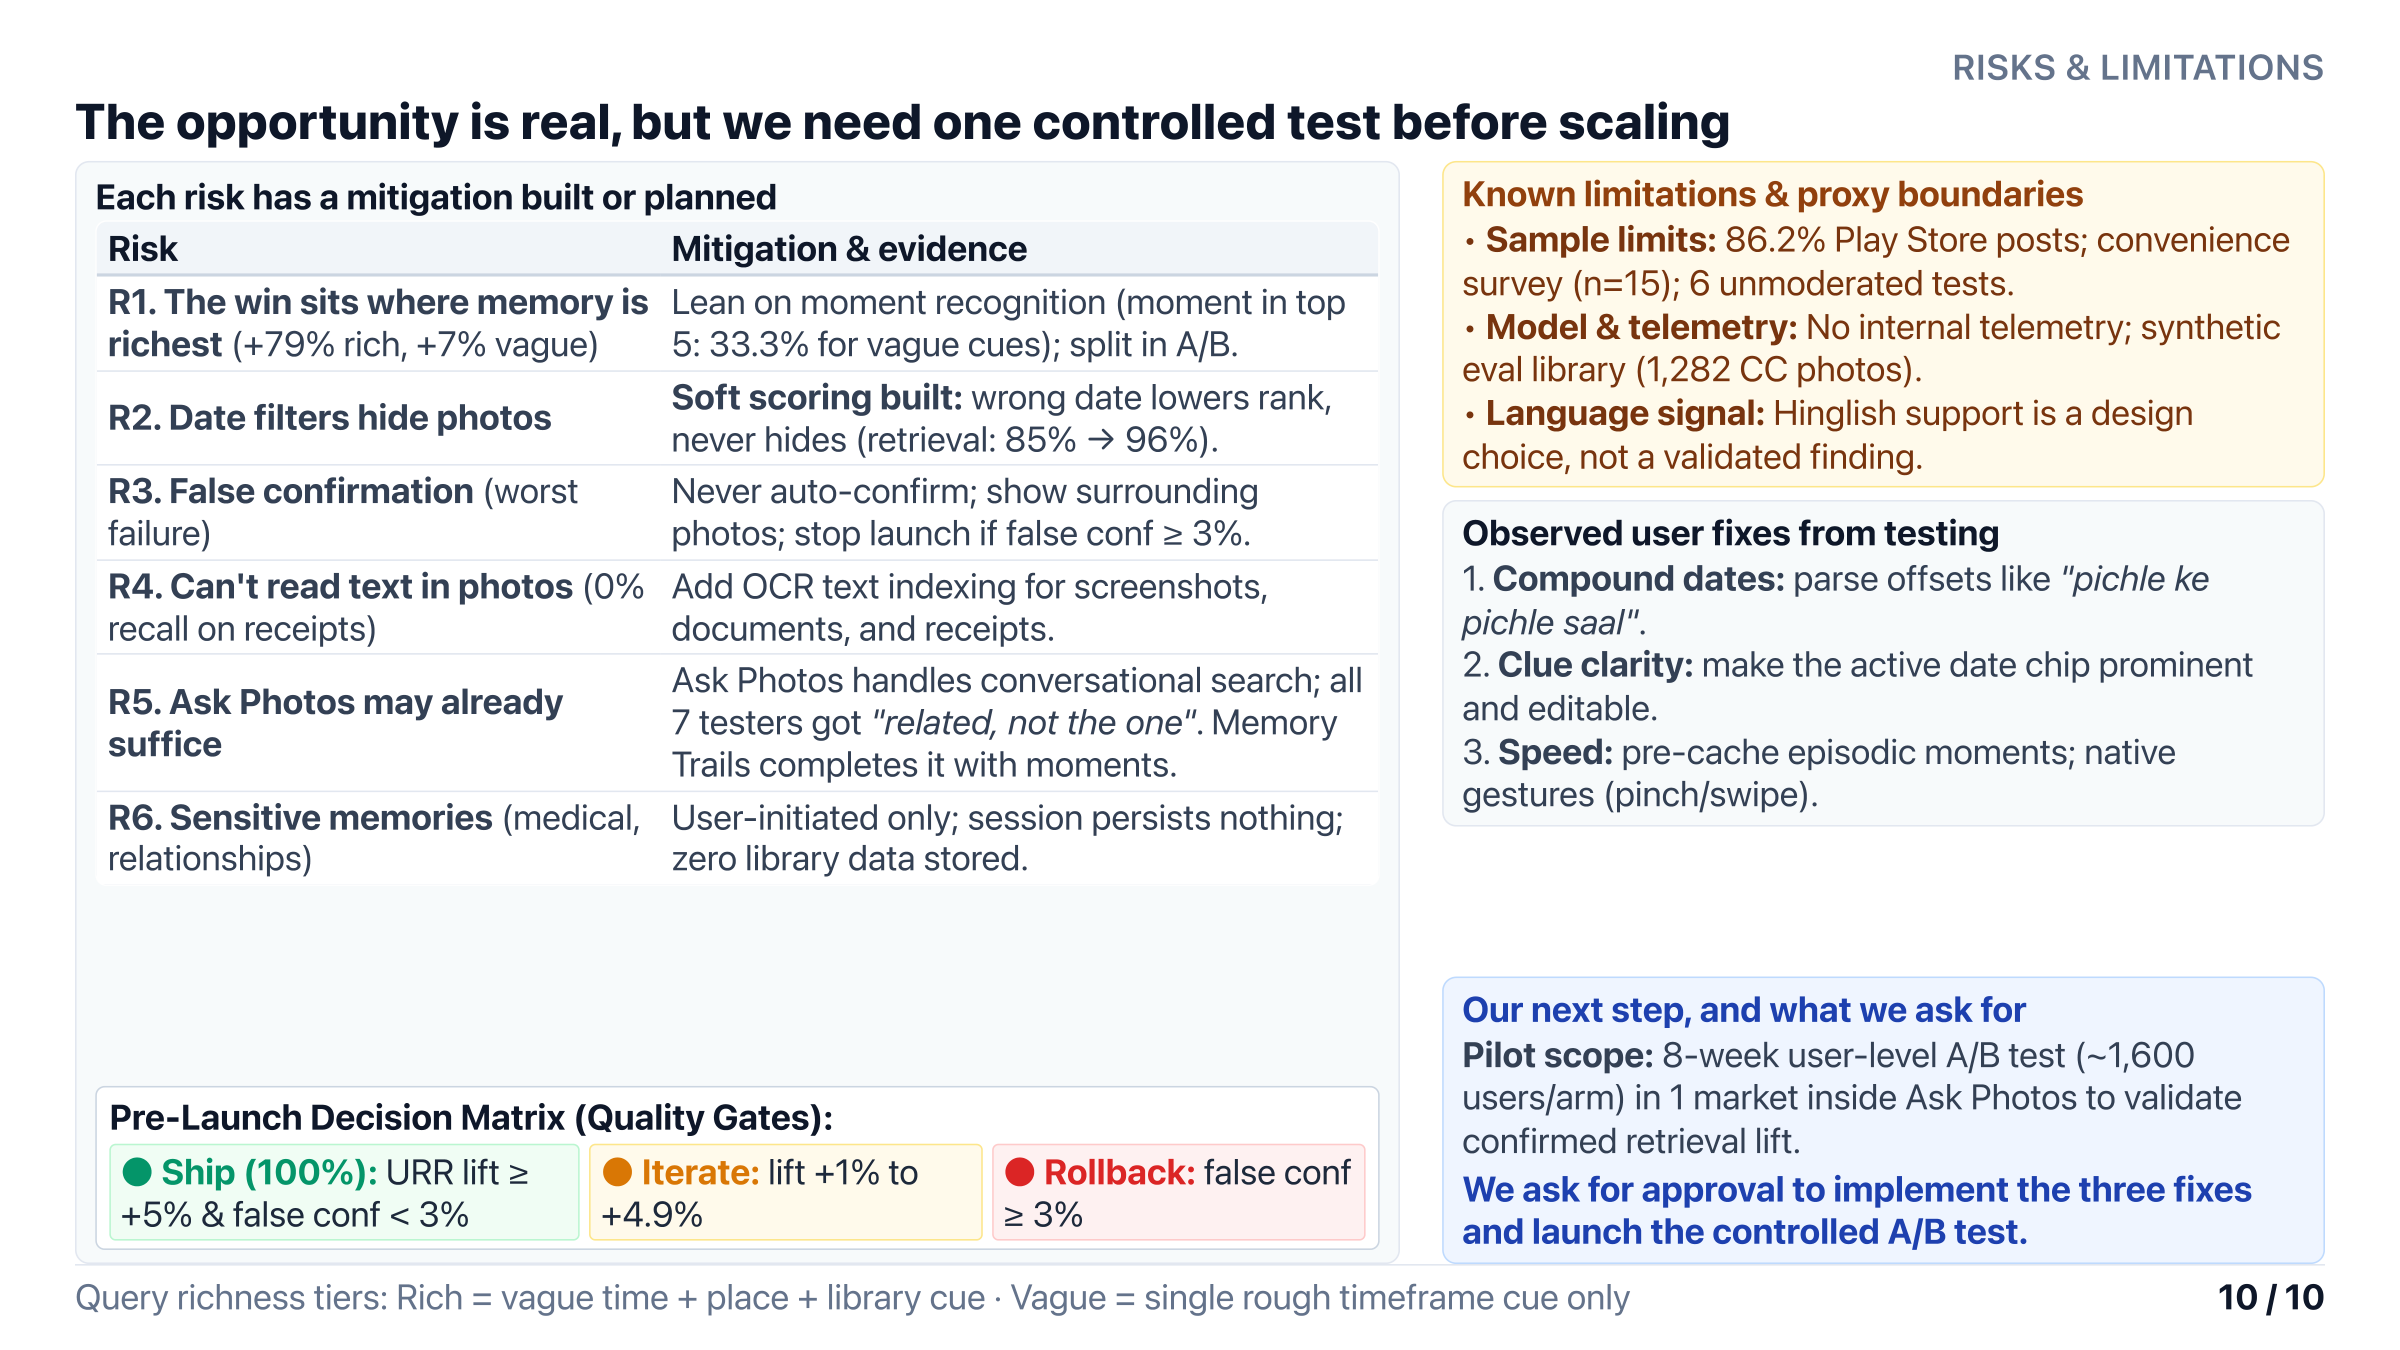
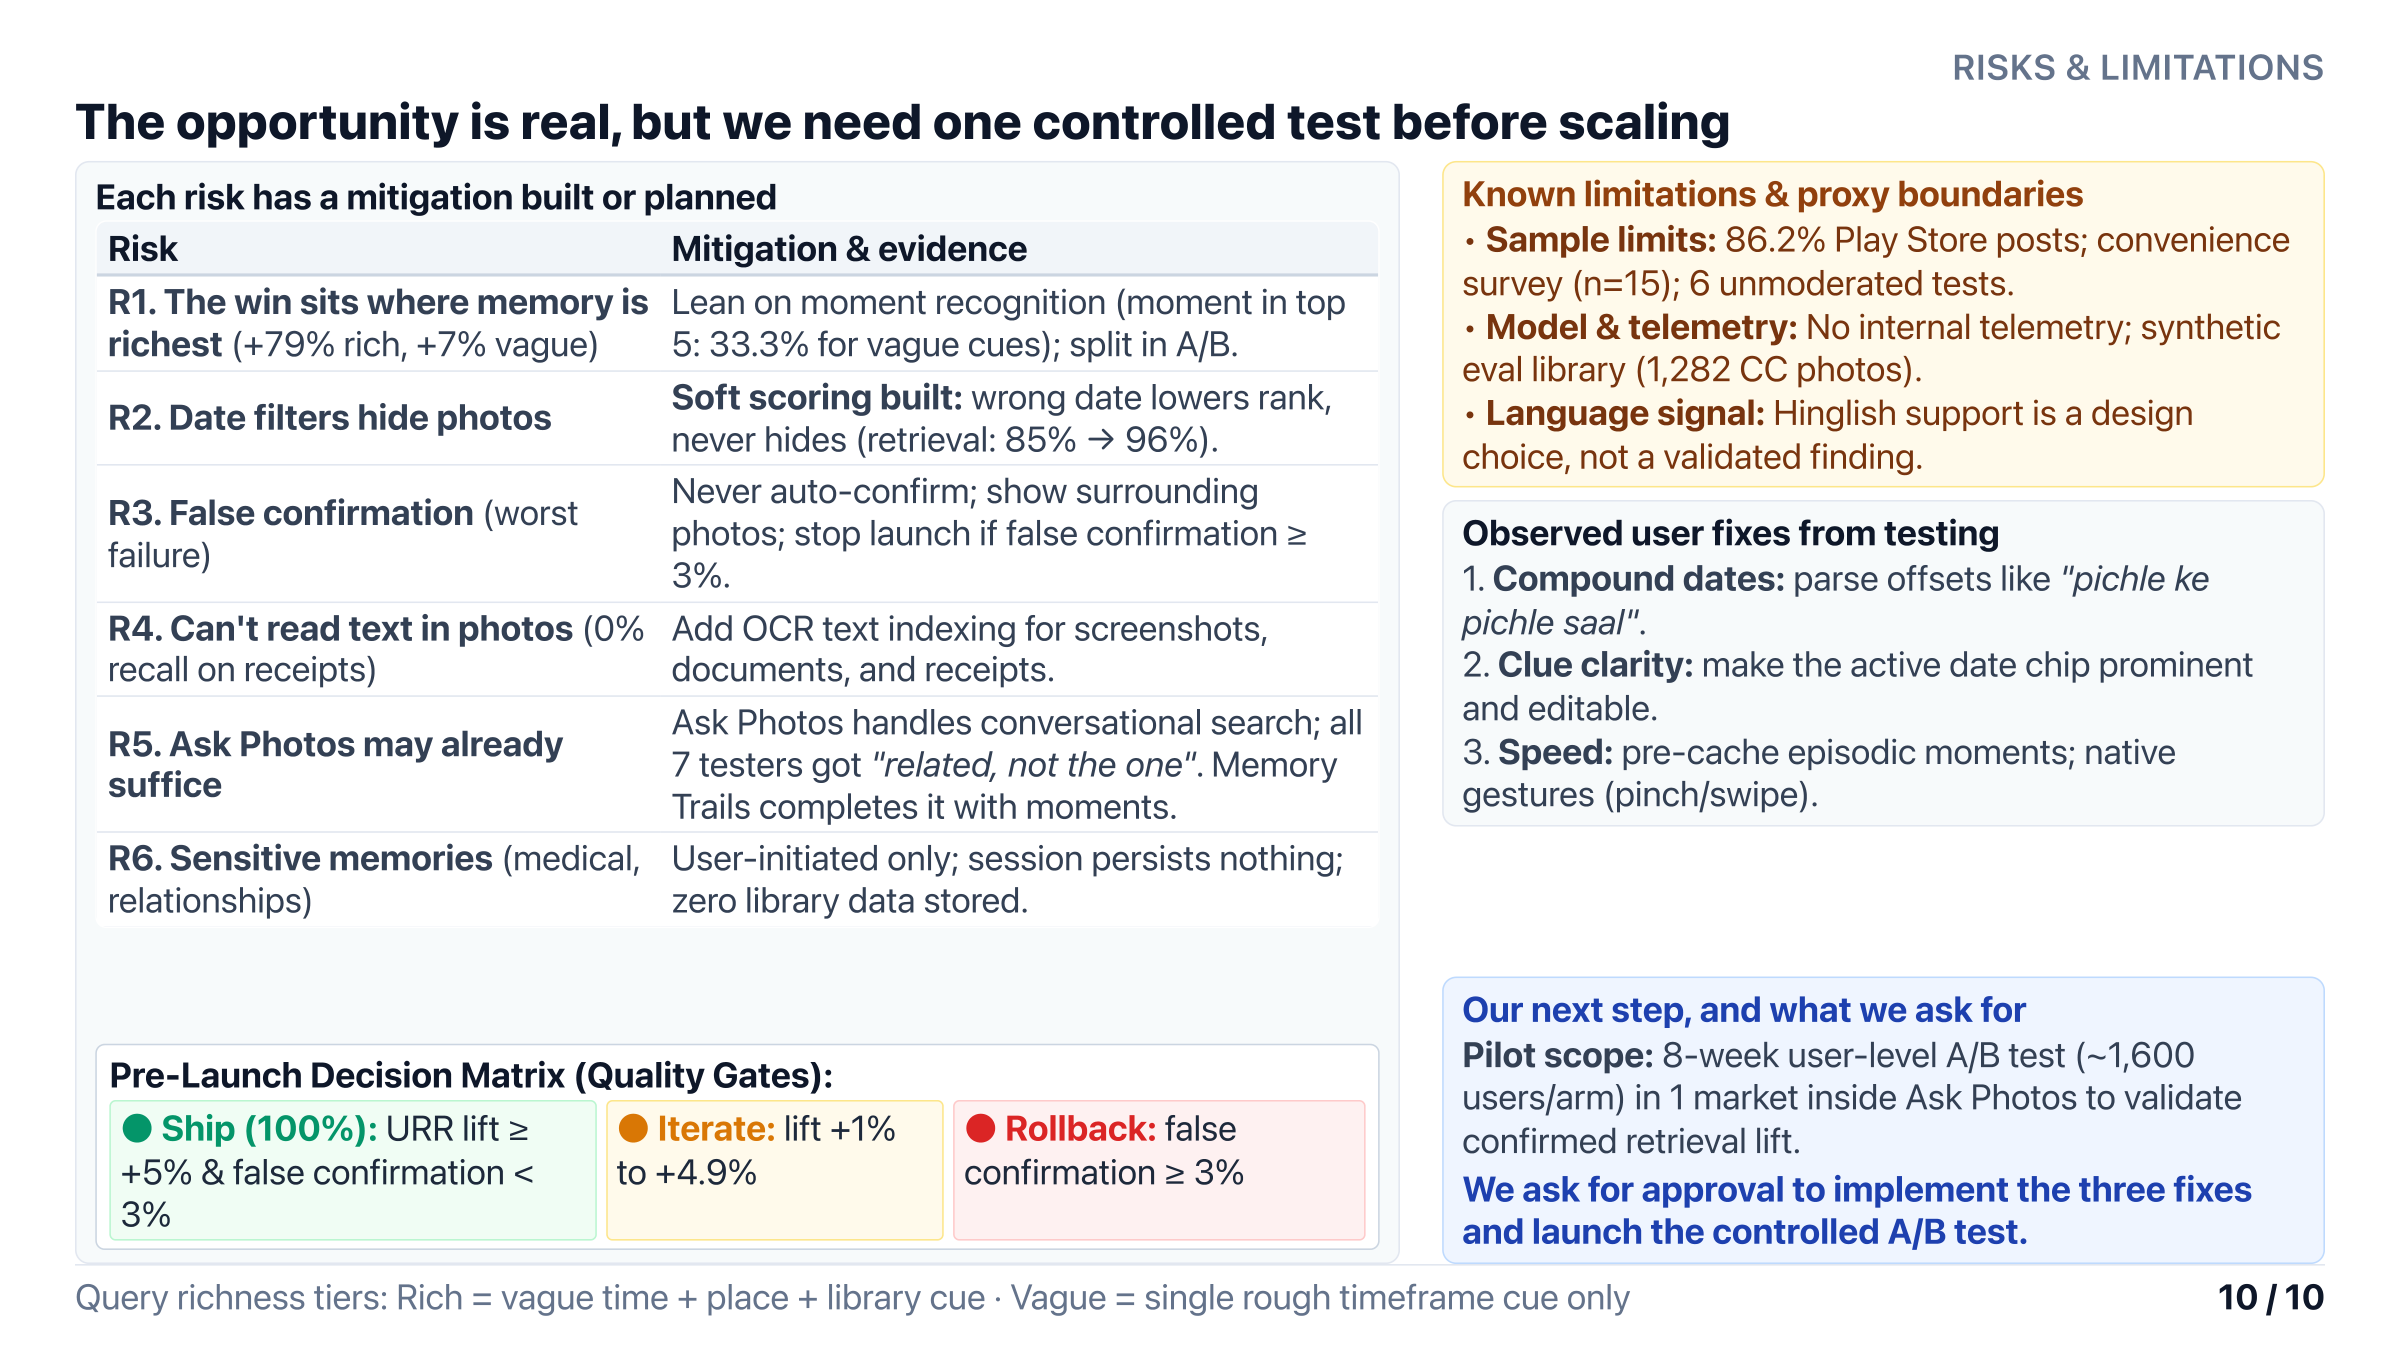
docs(deck): spell out false confirmation fully on Slide 10

Changed region(s): [[0.0312, 0.3422, 0.5625, 0.6844], [0.0312, 0.7778, 0.5625, 0.9333]]

diff --git a/deck/index.html b/deck/index.html
@@ -1119,7 +1119,7 @@
           <tbody>
             <tr><td><strong>R1. The win sits where memory is richest</strong> (+79% rich, +7% vague)</td><td>Lean on moment recognition (moment in top 5: 33.3% for vague cues); split in A/B.</td></tr>
             <tr><td><strong>R2. Date filters hide photos</strong></td><td><strong>Soft scoring built:</strong> wrong date lowers rank, never hides (retrieval: 85% → 96%).</td></tr>
-            <tr><td><strong>R3. False confirmation</strong> (worst failure)</td><td>Never auto-confirm; show surrounding photos; stop launch if false conf &ge; 3%.</td></tr>
+            <tr><td><strong>R3. False confirmation</strong> (worst failure)</td><td>Never auto-confirm; show surrounding photos; stop launch if false confirmation &ge; 3%.</td></tr>
             <tr><td><strong>R4. Can't read text in photos</strong> (0% recall on receipts)</td><td>Add OCR text indexing for screenshots, documents, and receipts.</td></tr>
             <tr><td><strong>R5. Ask Photos may already suffice</strong></td><td>Ask Photos handles conversational search; all 7 testers got <em>"related, not the one"</em>. Memory Trails completes it with moments.</td></tr>
             <tr><td><strong>R6. Sensitive memories</strong> (medical, relationships)</td><td>User-initiated only; session persists nothing; zero library data stored.</td></tr>
@@ -1130,14 +1130,14 @@
         <div style="margin-top: auto; padding: 5px 8px; background: #FFFFFF; border: 1.5px solid #CBD5E1; border-radius: 6px; font-size: 17pt; line-height: 1.2;">
           <div style="font-weight: 700; color: #0F172A; margin-bottom: 3px;">Pre-Launch Decision Matrix (Quality Gates):</div>
           <div style="display: flex; gap: 6px;">
-            <div style="background: #F0FDF4; border: 1px solid #BBF7D0; border-radius: 4px; padding: 3px 6px; flex: 1.15;">
-              <strong style="color: #059669;">● Ship (100%):</strong> URR lift &ge; +5% &amp; false conf &lt; 3%
+            <div style="background: #F0FDF4; border: 1px solid #BBF7D0; border-radius: 4px; padding: 3px 6px; flex: 1.25;">
+              <strong style="color: #059669;">● Ship (100%):</strong> URR lift &ge; +5% &amp; false confirmation &lt; 3%
             </div>
-            <div style="background: #FFFBEB; border: 1px solid #FDE68A; border-radius: 4px; padding: 3px 6px; flex: 0.95;">
+            <div style="background: #FFFBEB; border: 1px solid #FDE68A; border-radius: 4px; padding: 3px 6px; flex: 0.85;">
               <strong style="color: #D97706;">● Iterate:</strong> lift +1% to +4.9%
             </div>
-            <div style="background: #FEF2F2; border: 1px solid #FECACA; border-radius: 4px; padding: 3px 6px; flex: 0.9;">
-              <strong style="color: #DC2626;">● Rollback:</strong> false conf &ge; 3%
+            <div style="background: #FEF2F2; border: 1px solid #FECACA; border-radius: 4px; padding: 3px 6px; flex: 1.05;">
+              <strong style="color: #DC2626;">● Rollback:</strong> false confirmation &ge; 3%
             </div>
           </div>
         </div>

diff --git a/deck/build_deck.py b/deck/build_deck.py
@@ -1156,7 +1156,7 @@ def generate_html():
           <tbody>
             <tr><td><strong>R1. The win sits where memory is richest</strong> (+79% rich, +7% vague)</td><td>Lean on moment recognition (moment in top 5: 33.3% for vague cues); split in A/B.</td></tr>
             <tr><td><strong>R2. Date filters hide photos</strong></td><td><strong>Soft scoring built:</strong> wrong date lowers rank, never hides (retrieval: 85% → 96%).</td></tr>
-            <tr><td><strong>R3. False confirmation</strong> (worst failure)</td><td>Never auto-confirm; show surrounding photos; stop launch if false conf &ge; 3%.</td></tr>
+            <tr><td><strong>R3. False confirmation</strong> (worst failure)</td><td>Never auto-confirm; show surrounding photos; stop launch if false confirmation &ge; 3%.</td></tr>
             <tr><td><strong>R4. Can't read text in photos</strong> (0% recall on receipts)</td><td>Add OCR text indexing for screenshots, documents, and receipts.</td></tr>
             <tr><td><strong>R5. Ask Photos may already suffice</strong></td><td>Ask Photos handles conversational search; all 7 testers got <em>"related, not the one"</em>. Memory Trails completes it with moments.</td></tr>
             <tr><td><strong>R6. Sensitive memories</strong> (medical, relationships)</td><td>User-initiated only; session persists nothing; zero library data stored.</td></tr>
@@ -1167,14 +1167,14 @@ def generate_html():
         <div style="margin-top: auto; padding: 5px 8px; background: #FFFFFF; border: 1.5px solid #CBD5E1; border-radius: 6px; font-size: 17pt; line-height: 1.2;">
           <div style="font-weight: 700; color: #0F172A; margin-bottom: 3px;">Pre-Launch Decision Matrix (Quality Gates):</div>
           <div style="display: flex; gap: 6px;">
-            <div style="background: #F0FDF4; border: 1px solid #BBF7D0; border-radius: 4px; padding: 3px 6px; flex: 1.15;">
-              <strong style="color: #059669;">● Ship (100%):</strong> URR lift &ge; +5% &amp; false conf &lt; 3%
+            <div style="background: #F0FDF4; border: 1px solid #BBF7D0; border-radius: 4px; padding: 3px 6px; flex: 1.25;">
+              <strong style="color: #059669;">● Ship (100%):</strong> URR lift &ge; +5% &amp; false confirmation &lt; 3%
             </div>
-            <div style="background: #FFFBEB; border: 1px solid #FDE68A; border-radius: 4px; padding: 3px 6px; flex: 0.95;">
+            <div style="background: #FFFBEB; border: 1px solid #FDE68A; border-radius: 4px; padding: 3px 6px; flex: 0.85;">
               <strong style="color: #D97706;">● Iterate:</strong> lift +1% to +4.9%
             </div>
-            <div style="background: #FEF2F2; border: 1px solid #FECACA; border-radius: 4px; padding: 3px 6px; flex: 0.9;">
-              <strong style="color: #DC2626;">● Rollback:</strong> false conf &ge; 3%
+            <div style="background: #FEF2F2; border: 1px solid #FECACA; border-radius: 4px; padding: 3px 6px; flex: 1.05;">
+              <strong style="color: #DC2626;">● Rollback:</strong> false confirmation &ge; 3%
             </div>
           </div>
         </div>
